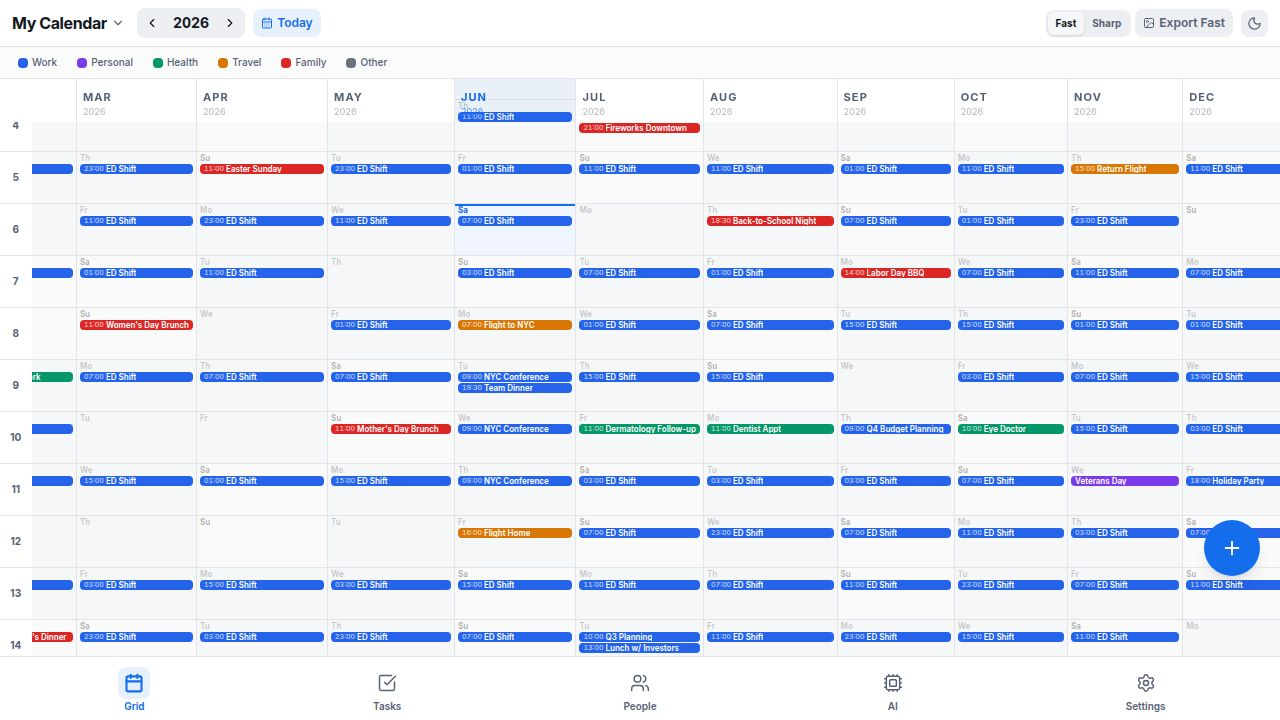
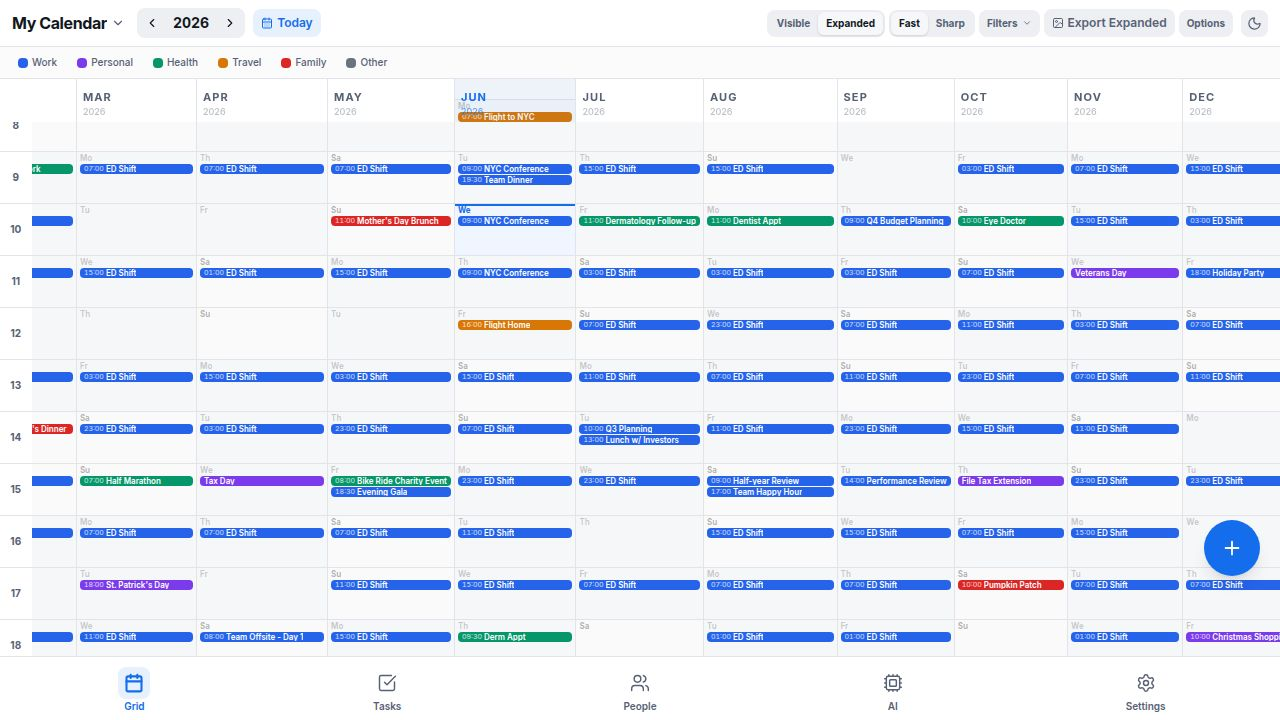
Add AI project building and reorganization capabilities
Introduce a new AI prompt type for building and reorganizing projects, including a project selection UI and updated prompt generation logic in `aiPrompt.ts` and `AIView.tsx`.

Replit-Commit-Author: Agent
Replit-Commit-Session-Id: 3497153c-be5f-441b-8abf-dca028593c41
Replit-Commit-Checkpoint-Type: full_checkpoint
Replit-Commit-Event-Id: cd02c5e7-e031-448e-aad4-8f3914b9bb6f
Replit-Commit-Screenshot-Url: https://storage.googleapis.com/screenshot-production-us-central1/83fd2b5b-f8ca-4935-9266-c2404b0b0eb7/3497153c-be5f-441b-8abf-dca028593c41/scYgP0x
Replit-Helium-Checkpoint-Created: true

diff --git a/artifacts/lifegrid/src/lib/aiPrompt.ts b/artifacts/lifegrid/src/lib/aiPrompt.ts
@@ -373,14 +373,15 @@ const encodeTasks = (tasks: Task[]): string => {
 // ─── Prompt types & their objective blocks ───────────────────────────────────
 export type PromptType =
   | 'compact' | 'analyze' | 'conflicts' | 'freetime' | 'balance' | 'prep' | 'digest'
-  | 'tasks-only' | 'availability' | 'projects' | 'messages' | 'patch';
+  | 'tasks-only' | 'availability' | 'projects' | 'messages' | 'patch' | 'project-reorg';
 
 export const PROMPT_TYPES: { id: PromptType; emoji: string; title: string; description: string; badge?: string }[] = [
   { id: 'compact',      emoji: '🧭', title: 'Admin planning',        description: 'Default: share compact LifeGrid context and ask the AI admin assistant to help.', badge: 'Fast' },
   { id: 'availability', emoji: '📅', title: 'Free time / meetings',  description: 'Find open slots, coordinate meetings, and schedule focus blocks.', badge: 'Focused' },
   { id: 'tasks-only',   emoji: '✅', title: 'Task prioritization',   description: 'Sort tasks, clarify next actions, and identify urgent work.', badge: 'Focused' },
-  { id: 'projects',     emoji: '🧱', title: 'Project breakdown',     description: 'Break large projects into small actionable subtasks.' },
-  { id: 'messages',     emoji: '✉️', title: 'Draft messages',        description: 'Draft emails/texts based on your schedule and tasks.' },
+  { id: 'projects',      emoji: '🧱', title: 'Project breakdown',            description: 'Break large projects into small actionable subtasks.' },
+  { id: 'project-reorg', emoji: '🏗️', title: 'Build / Reorganize Project', description: 'Create or restructure a project with tasks, milestones, schedule blocks, and review items.', badge: 'New' },
+  { id: 'messages',      emoji: '✉️', title: 'Draft messages',               description: 'Draft emails/texts based on your schedule and tasks.' },
   { id: 'patch',        emoji: '🧩', title: 'Bulk updates / JSON',   description: 'Minimal raw JSON only: changed fields, completions, and deletes.', badge: 'Fast' },
   { id: 'analyze',      emoji: '🔍', title: 'Full schedule review',  description: 'Conflicts, overloaded days, missing prep, and general improvements.' },
   { id: 'freetime',     emoji: '🟢', title: 'Free-time scan',        description: 'Open slots and gaps where new things could be scheduled.' },
@@ -446,6 +447,11 @@ List each conflict clearly, then propose "update"/"delete"/"add" fixes.`,
 2. Match each pending/incomplete task to a realistic time slot
 3. Suggest "add" events as focus blocks or appointments
 4. Keep suggestions practical — don't overschedule`,
+  'project-reorg': `Build or reorganize a LifeGrid project:
+1. Create a project with tasks, milestones, and schedule blocks — or restructure an existing one
+2. Use reviewItems.add for uncertain requirements, assumptions, dependencies, and decisions
+3. Only update flexible-work-block, reminder, or placeholder events; protect all fixed events
+4. Put risky deletion suggestions in candidateDeletes (review-only, never auto-applied)`,
 };
 
 export interface PlanningOptions {
@@ -456,6 +462,7 @@ export interface PlanningOptions {
   includePeople?: boolean;
   includeCompletedTasks?: boolean;
   includeProjectsTags?: boolean;
+  targetProjectId?: string | null; // for project-reorg mode
 }
 
 // ─── 1. PLANNING PROMPT — analyze schedule, optionally scoped to a date range ─
@@ -463,6 +470,7 @@ export const generatePlanningPrompt = (data: AppData, opts: PlanningOptions = {}
   const {
     promptType = 'compact', focusStart, focusEnd,
     includeTasks = true, includePeople = true, includeCompletedTasks = false, includeProjectsTags = true,
+    targetProjectId,
   } = opts;
 
   // ── Primary LifeGrid Admin prompt: broad, efficient, and range-aware ──
@@ -588,6 +596,94 @@ PENDING TASKS — ${pendingTasks.length}
 ==================================================
 ${encodeTasks(pendingTasks)}
 ${schemaReference(data.categories)}`;
+  }
+
+  // ── Project build / reorganize mode ──
+  if (promptType === 'project-reorg') {
+    const t = today();
+    const targetProject = targetProjectId ? (data.projects.find(p => p.id === targetProjectId) ?? null) : null;
+    const isBuilding = !targetProject;
+
+    const projectTasks = targetProject
+      ? data.tasks.filter(task => task.projectId === targetProject.id && task.status !== 'done')
+      : [];
+    const otherIncompleteTasks = data.tasks.filter(task =>
+      task.status !== 'done' && (!targetProject || task.projectId !== targetProject.id)
+    );
+    const moveableKinds = new Set(['flexible-work-block', 'reminder', 'placeholder']);
+    const moveableEvents = data.events.filter(e => e.eventKind && moveableKinds.has(e.eventKind));
+    const fixedEvents = data.events.filter(e => !e.eventKind || !moveableKinds.has(e.eventKind));
+    const linkedFixedEvents = targetProject
+      ? fixedEvents.filter(e => e.linkedTaskIds?.some(tid => projectTasks.some(pt => pt.id === tid)))
+      : [];
+    const unlinkedFixedEvents = fixedEvents.filter(e => !linkedFixedEvents.some(lfe => lfe.id === e.id));
+
+    const taskSection = targetProject
+      ? `==================================================
+TASKS IN THIS PROJECT — ${projectTasks.length} incomplete
+==================================================
+${encodeTasks(projectTasks)}
+
+==================================================
+OTHER INCOMPLETE TASKS — context only, do not reorganize unless asked (${otherIncompleteTasks.length})
+==================================================
+${encodeTasks(otherIncompleteTasks)}`
+      : `==================================================
+ALL INCOMPLETE TASKS — context for new project planning (${otherIncompleteTasks.length})
+==================================================
+${encodeTasks(otherIncompleteTasks)}`;
+
+    const goalInstructions = isBuilding
+      ? `No project is targeted — help me BUILD a new project from scratch.
+
+When building a new project:
+- Use projects.add with a stable id, name, color, status: "active", and notes describing purpose, assumptions, and scope.
+- Use tasks.add for milestones and next actions. Set projectId, dueDateType, triageStatus, and priority.
+- Use events.add with eventKind: "flexible-work-block" for planned work blocks.
+- Use reviewItems.add for uncertain requirements, assumptions, dependencies, or items needing user review.
+- Link events to tasks via linkedTaskIds / linkedEventIds where possible.
+- Use projectId consistently across all tasks and events for the new project.`
+      : `Target project: "${targetProject!.name}" (id: ${targetProject!.id}, status: ${targetProject!.status})
+
+When reorganizing this project:
+- Use tasks.update with stable IDs to change status, priority, triageStatus, nextAction, or notes.
+- Mark tasks "backlog", "waiting", "blocked", "ready", or "done" via tasks.update as appropriate.
+- Use events.update ONLY for flexible-work-block, reminder, or placeholder events.
+- NEVER move or update fixed-appointment, shift, travel, protected-time, or day-type events.
+- Use mergeIntoDayType or convertTimedBlockToTask only when clearly appropriate and only with stable IDs.
+- Put risky deletion suggestions in candidateDeletes — review-only, never auto-applied.`;
+
+    return `${adminAssistantIntro(data, `${isBuilding ? 'building a new project' : `reorganizing project "${targetProject!.name}"`}`, true)}
+Today is ${t}.
+
+${goalInstructions}
+
+==================================================
+ABSOLUTE SAFETY RULES
+==================================================
+- Match events and tasks by stable "id" ONLY — never by title, date, or time.
+- NEVER delete fixed-appointment, shift, travel, protected-time, day-type, or unknown-eventKind events.
+- Only flexible-work-block, reminder, and placeholder events may be deleted — prefer candidateDeletes even for these.
+- candidateDeletes are review-only and will NEVER be auto-applied by the app.
+- When uncertain, use reviewItems.add or warnings instead of making a risky change.
+- Output: LifeGrid JSON patch v2 only. No prose before or after the JSON.
+
+${taskSection}
+
+==================================================
+MOVEABLE EVENTS — flexible-work-block, reminder, placeholder (${moveableEvents.length})
+==================================================
+${encodeEventsDetailed(moveableEvents)}
+${linkedFixedEvents.length > 0 ? `==================================================
+FIXED EVENTS LINKED TO THIS PROJECT — context only, DO NOT MODIFY (${linkedFixedEvents.length})
+==================================================
+${encodeEventsDetailed(linkedFixedEvents)}
+
+` : ''}==================================================
+ALL OTHER FIXED EVENTS — context only, DO NOT MODIFY (${unlinkedFixedEvents.length})
+==================================================
+${encodeEventsCompact(unlinkedFixedEvents)}
+${patchSchemaReference(data.categories)}`;
   }
 
   // ── Standard modes (analyze, conflicts, freetime, balance, prep, digest) ──

diff --git a/artifacts/lifegrid/src/pages/AIView.tsx b/artifacts/lifegrid/src/pages/AIView.tsx
@@ -46,7 +46,7 @@ interface Draft {
   mode: Mode; rawInput: string; prompt: string; importJson: string;
   promptType: PromptType; useRange: boolean; rangeStart: string; rangeEnd: string;
   rangePreset: DateRangePreset; includeTasks: boolean; includePeople: boolean; includeCompletedTasks: boolean; includeProjectsTags: boolean;
-  importSource: ImportSource; savedAt: number;
+  targetProjectId: string; importSource: ImportSource; savedAt: number;
 }
 const loadDraft = (): Partial<Draft> => {
   try {
@@ -91,6 +91,7 @@ export const AIView = () => {
   const [includePeople, setIncludePeople] = useState(draft.includePeople ?? true);
   const [includeCompletedTasks, setIncludeCompletedTasks] = useState(draft.includeCompletedTasks ?? false);
   const [includeProjectsTags, setIncludeProjectsTags] = useState(draft.includeProjectsTags ?? true);
+  const [targetProjectId, setTargetProjectId] = useState<string>(draft.targetProjectId ?? '');
 
   // Import: text paste vs. photo/screenshot upload to the AI
   const [importSource, setImportSource] = useState<ImportSource>(draft.importSource ?? 'text');
@@ -121,10 +122,10 @@ export const AIView = () => {
     const hasWork = mode !== 'choose' || rawInput.trim() || prompt || importJson.trim();
     try {
       if (!hasWork) { localStorage.removeItem(DRAFT_KEY); return; }
-      const d: Draft = { mode, rawInput, prompt, importJson, promptType, useRange, rangeStart, rangeEnd, rangePreset, includeTasks, includePeople, includeCompletedTasks, includeProjectsTags, importSource, savedAt: Date.now() };
+      const d: Draft = { mode, rawInput, prompt, importJson, promptType, useRange, rangeStart, rangeEnd, rangePreset, includeTasks, includePeople, includeCompletedTasks, includeProjectsTags, targetProjectId, importSource, savedAt: Date.now() };
       localStorage.setItem(DRAFT_KEY, JSON.stringify(d));
     } catch { /* quota */ }
-  }, [mode, rawInput, prompt, importJson, promptType, useRange, rangeStart, rangeEnd, rangePreset, includeTasks, includePeople, includeCompletedTasks, includeProjectsTags, importSource]);
+  }, [mode, rawInput, prompt, importJson, promptType, useRange, rangeStart, rangeEnd, rangePreset, includeTasks, includePeople, includeCompletedTasks, includeProjectsTags, targetProjectId, importSource]);
 
   const buildPrompt = () => {
     if (mode === 'optimize')
@@ -136,6 +137,7 @@ export const AIView = () => {
         includePeople,
         includeCompletedTasks,
         includeProjectsTags,
+        targetProjectId: targetProjectId || null,
       });
     if (mode === 'import')
       return importSource === 'image' ? generateImagePrompt(appData) : generateImportPrompt(rawInput, appData);
@@ -270,6 +272,7 @@ export const AIView = () => {
     setApprovedProposalIds(new Set());
     setPromptType('compact'); setRangePreset('next30'); setUseRange(true); setRangeStart(toISODate(new Date())); setRangeEnd(toISODate(addDays(new Date(), 30)));
     setIncludeTasks(true); setIncludePeople(true); setIncludeCompletedTasks(false); setIncludeProjectsTags(true);
+    setTargetProjectId('');
     try { localStorage.removeItem(DRAFT_KEY); } catch { /* */ }
   };
 
@@ -505,6 +508,28 @@ export const AIView = () => {
                   );
                 })}
               </div>
+
+              {promptType === 'project-reorg' && (
+                <div className="mt-4 pt-3 border-t border-border/50 animate-in fade-in space-y-2">
+                  <Label className="text-xs font-semibold">Target project (optional)</Label>
+                  <p className="text-[10px] text-muted-foreground leading-relaxed">
+                    Use this to ask AI to create, pause, resume, or reorganize a project using your current LifeGrid context. AI should return a JSON patch for review.
+                  </p>
+                  <select
+                    value={targetProjectId}
+                    onChange={e => { setTargetProjectId(e.target.value); setPrompt(''); setCopied(false); setPromptTokens(null); }}
+                    className="w-full h-9 rounded-md border border-input bg-background px-3 text-xs text-foreground appearance-none cursor-pointer"
+                    data-testid="select-target-project"
+                  >
+                    <option value="">— New project / all projects —</option>
+                    {appData.projects.map(p => (
+                      <option key={p.id} value={p.id}>
+                        {p.name}{p.status !== 'active' ? ` (${p.status})` : ''}
+                      </option>
+                    ))}
+                  </select>
+                </div>
+              )}
             </details>
           </StepBlock>
         )}

diff --git a/.agents/memory/lifegrid-aiprompt-v032.md b/.agents/memory/lifegrid-aiprompt-v032.md
@@ -1,34 +1,46 @@
 ---
-name: LifeGrid aiPrompt.ts v0.3.2 architecture
-description: compact mode is now the primary range-aware admin prompt; PlanningOptions extended; adminAssistantIntro takes includeProjectsTags; normalize* accept tag/tags aliases.
+name: LifeGrid aiPrompt.ts architecture (v0.3.2 → v0.4.4)
+description: compact mode is primary admin prompt; project-reorg mode added in v0.4.4 Pass 3; PlanningOptions extended; normalize* accept tag/tags aliases.
 ---
 
-## Key changes in v0.3.2
+## Key patterns
 
 ### adminAssistantIntro signature
-Now: `adminAssistantIntro(data, requestLabel, includeProjectsTags = true)`  
-The Projects+Tags block is conditional on `includeProjectsTags`. Old calls without the 3rd param still work (defaults to true).
+`adminAssistantIntro(data, requestLabel, includeProjectsTags = true)`  
+Projects+Tags block is conditional on `includeProjectsTags`. Defaults to true.
 
-### PlanningOptions new fields
+### PlanningOptions fields (current)
 ```ts
-includeTasks?: boolean;       // default true
-includePeople?: boolean;      // default true
-includeCompletedTasks?: boolean; // default false
-includeProjectsTags?: boolean;   // default true
+promptType?: PromptType;
+focusStart?: string | null;
+focusEnd?: string | null;
+includeTasks?: boolean;           // default true
+includePeople?: boolean;          // default true
+includeCompletedTasks?: boolean;  // default false
+includeProjectsTags?: boolean;    // default true
+targetProjectId?: string | null;  // for project-reorg mode; default undefined
 ```
 
 ### compact mode = primary admin prompt
-The `compact` prompt type is no longer "14-day quick summary". It is now the general-purpose, range-aware LifeGrid Admin prompt:
-- Uses `focusStart/focusEnd` from opts (scoped) or the full calendar (unscoped)
-- Respects all 4 new `PlanningOptions` flags
-- Includes conversational AI instructions + patch schema
-- **Why:** The AIView defaults to compact; it's what users see first.
+The `compact` prompt type is the general-purpose, range-aware LifeGrid Admin prompt. It's what users see first (AIView defaults to it).
+
+### project-reorg mode (added v0.4.4 Pass 3)
+New `PromptType` value `'project-reorg'` in `generatePlanningPrompt`.
+- Reads `targetProjectId` from opts to find a specific project or default to "build new"
+- Generates a two-mode prompt: BUILD (no target) vs REORGANIZE (target selected)
+- Shows project tasks + other incomplete tasks + moveable events + fixed events (context-only)
+- Uses `patchSchemaReference` for output format (same as other patch-producing modes)
+- AIView shows a project `<select>` dropdown (data-testid="select-target-project") inside the `<details>` section when this prompt type is selected
+- `targetProjectId` is persisted to the `Draft` localStorage object
 
 ### normalize* tag/category aliases
-`normalizeEvents`, `normalizeTasks`, `normalizeEventUpdate`, `normalizeTaskUpdate` all accept `e.tag`, `e.tags[0]`, and `e.category` interchangeably. AI output often uses "tag" instead of "category" — this makes imports robust.
+`normalizeEvents`, `normalizeTasks`, etc. accept `e.tag`, `e.tags[0]`, and `e.category` interchangeably. AI output often uses "tag" — makes imports robust.
 
-### patchSchemaReference updated rules
-- new_tasks example now includes `"category": "category-or-tag-id"`
-- updated_tasks example includes `"category"` too
-- Rules note: "Tags and categories are the same LifeGrid classification system"
-- New rule: "Ask/converse first if needed. When I say 'Output the final LifeGrid raw JSON patch only,' return this raw JSON object only."
+### Adding a new prompt type: checklist
+1. Add to `PromptType` union
+2. Add to `PROMPT_TYPES` array (emoji, title, description, badge?)
+3. Add to `OBJECTIVE` record
+4. Add any new `PlanningOptions` fields needed
+5. Add destructuring in `generatePlanningPrompt`
+6. Add a branch before `// ── Standard modes` comment
+7. If the mode needs UI inputs in AIView, add state + Draft field + useEffect deps + reset + UI